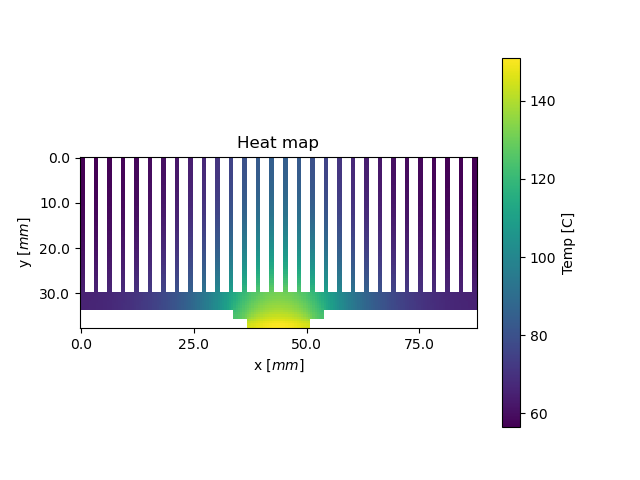
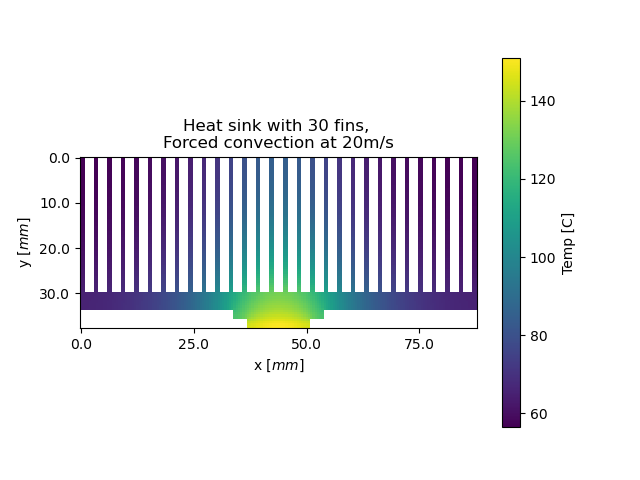
graphs

Changed region(s): [[0.25, 0.25, 0.625, 0.3125]]

diff --git a/project_4/main.py b/project_4/main.py
@@ -273,38 +273,38 @@ def find_ini_T(lower_limit, upper_limit, max_iterations=2000, max_repeat=20, cas
     
 
 # getting the last tried values from the ini_T.txt file
-with open('project_4\\forced_convection\\ini_T.txt', 'r') as file:
-    lines = file.readlines()
-last_tried_values = []
-for line in lines:
-    if 'last tried :' in line:
-        last_tried = line.split(':')[1].strip()
-        last_tried = float(last_tried.split(' ')[0])
-        last_tried_values.append(last_tried)
-last_tried_values = np.array(last_tried_values)
-ini_temps = np.reshape(last_tried_values, (40, 10))
+# with open('project_4\\forced_convection\\ini_T.txt', 'r') as file:
+#     lines = file.readlines()
+# last_tried_values = []
+# for line in lines:
+#     if 'last tried :' in line:
+#         last_tried = line.split(':')[1].strip()
+#         last_tried = float(last_tried.split(' ')[0])
+#         last_tried_values.append(last_tried)
+# last_tried_values = np.array(last_tried_values)
+# ini_temps = np.reshape(last_tried_values, (40, 10))
 
 
-highest_Ts = np.zeros((40, 10))
-for i in range(0, 10):
-    for j in range(0, 40):
-        if (i == 1 and j == 29):
-            ini_temp = ini_temps[j, i]
-            sink = cg.grid(case_dim=[20e-3,2e-3], sink_dim=[4e-3,30e-3,2e-3,1e-3,j+1], nat_conv=False, delta=[0.5e-3,0.5e-3], v=(i+1)*10, ini_temp=ini_temp)
-            try:
-                os.mkdir(f'project_4\\forced_convection\\5pt_per_mm\\change_speed__fin\\v_{(i+1)*10}_fins_{j+1}')
-            except:
-                pass
-            highest_T = sink.iterate_K(max_iterations=10000, save=True, save_every=10000, save_folder=f'forced_convection\\5pt_per_mm\\change_speed__fin\\v_{(i+1)*10}_fins_{j+1}' , return_highest_T=True, tolerance=0.001)
-            highest_Ts[j, i] = highest_T
-            graph_count += 1
-            with open('project_4\\forced_convection\\highest_T.txt', 'a') as file:
-                string = 'for speed v = ' + str((i+1)*10) + '  number of fins = ' + str(j+1) + ' highest_T : ' + str(highest_T)
-                file.write(string + '\n')
-print(highest_Ts)
-with open('project_4\\forced_convection\\highest_T.txt', 'a') as file:
-    string = str(highest_Ts)
-    file.write(string + '\n')
+# highest_Ts = np.zeros((40, 10))
+# for i in range(0, 10):
+#     for j in range(0, 40):
+#         if (i == 1 and j == 29):
+#             ini_temp = ini_temps[j, i]
+#             sink = cg.grid(case_dim=[20e-3,2e-3], sink_dim=[4e-3,30e-3,2e-3,1e-3,j+1], nat_conv=False, delta=[0.5e-3,0.5e-3], v=(i+1)*10, ini_temp=ini_temp)
+#             try:
+#                 os.mkdir(f'project_4\\forced_convection\\5pt_per_mm\\change_speed__fin\\v_{(i+1)*10}_fins_{j+1}')
+#             except:
+#                 pass
+#             highest_T = sink.iterate_K(max_iterations=10000, save=True, save_every=10000, save_folder=f'forced_convection\\5pt_per_mm\\change_speed__fin\\v_{(i+1)*10}_fins_{j+1}' , return_highest_T=True, tolerance=0.001, title='Heat sink with 30 fins, \nForced convection at 20m/s')
+#             highest_Ts[j, i] = highest_T
+#             graph_count += 1
+#             with open('project_4\\forced_convection\\highest_T.txt', 'a') as file:
+#                 string = 'for speed v = ' + str((i+1)*10) + '  number of fins = ' + str(j+1) + ' highest_T : ' + str(highest_T)
+#                 file.write(string + '\n')
+# print(highest_Ts)
+# with open('project_4\\forced_convection\\highest_T.txt', 'a') as file:
+#     string = str(highest_Ts)
+#     file.write(string + '\n')
 
 
 ## to do
